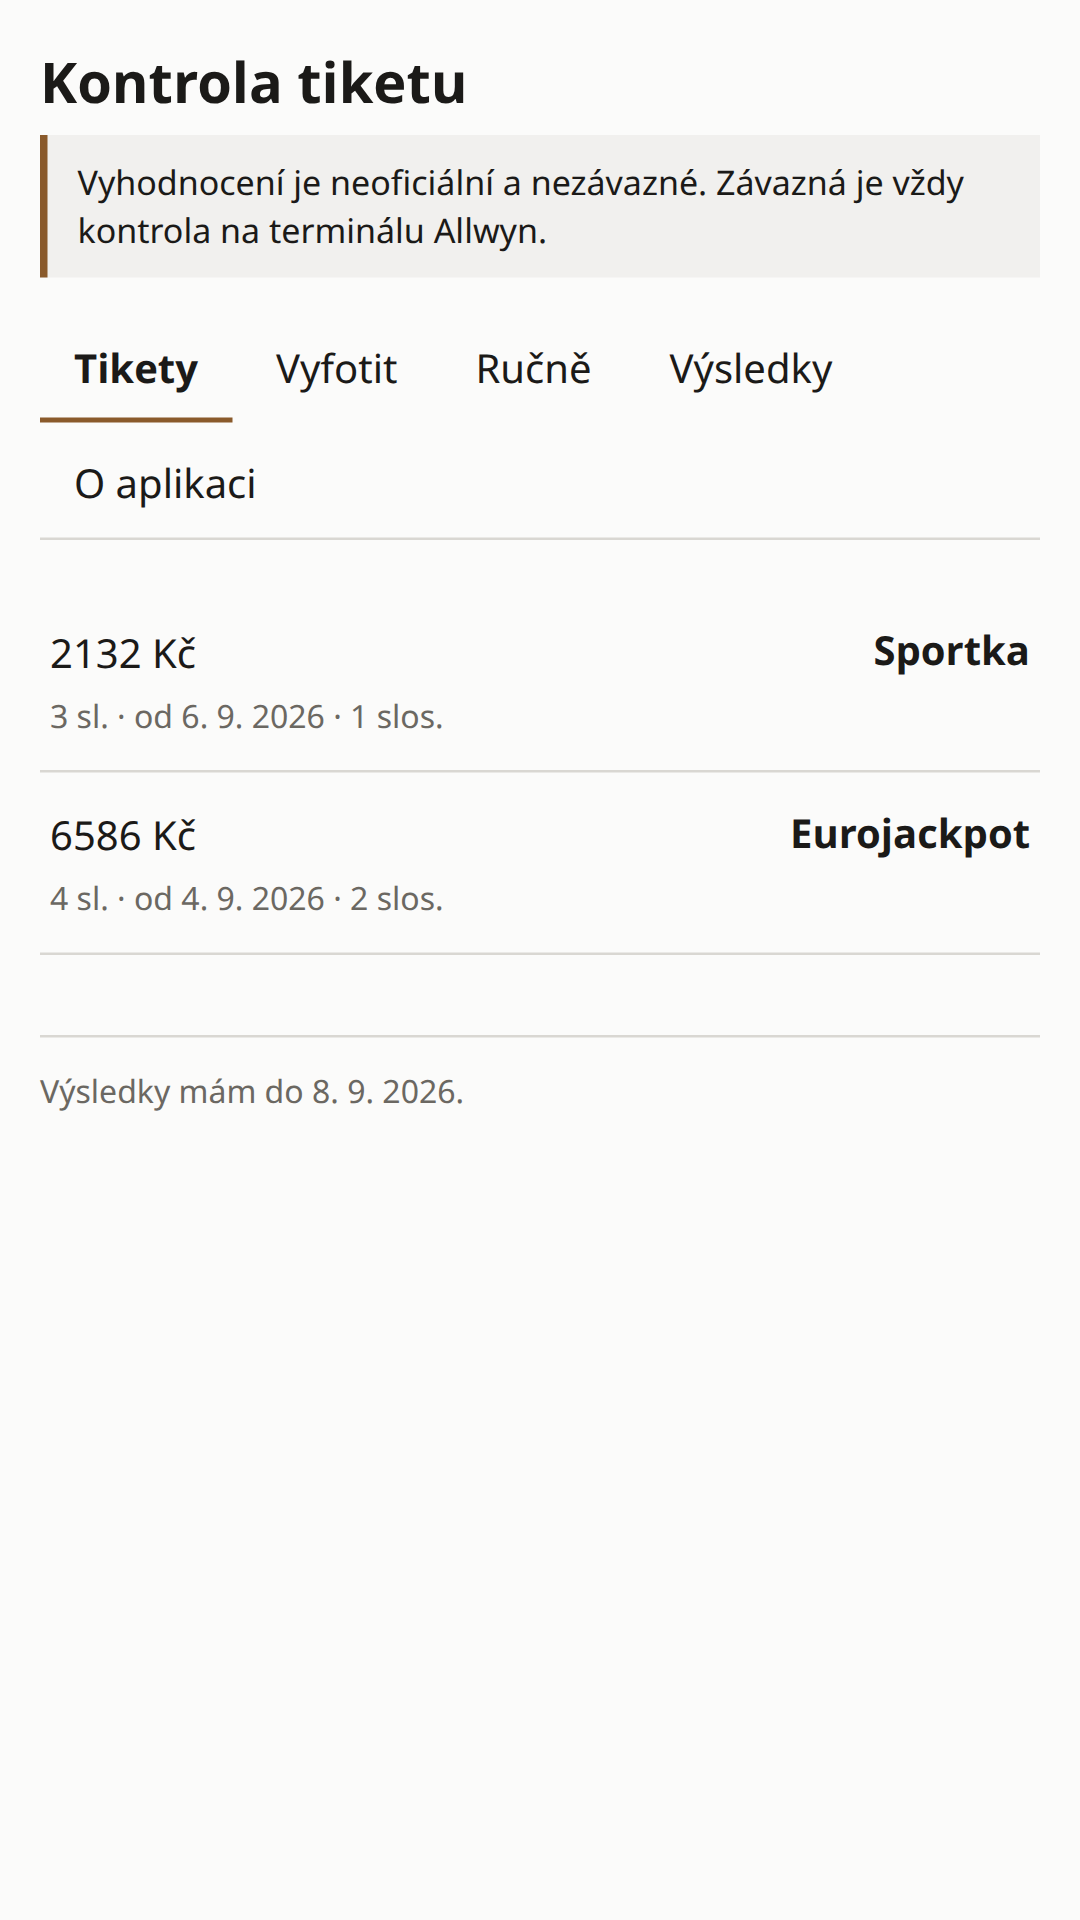
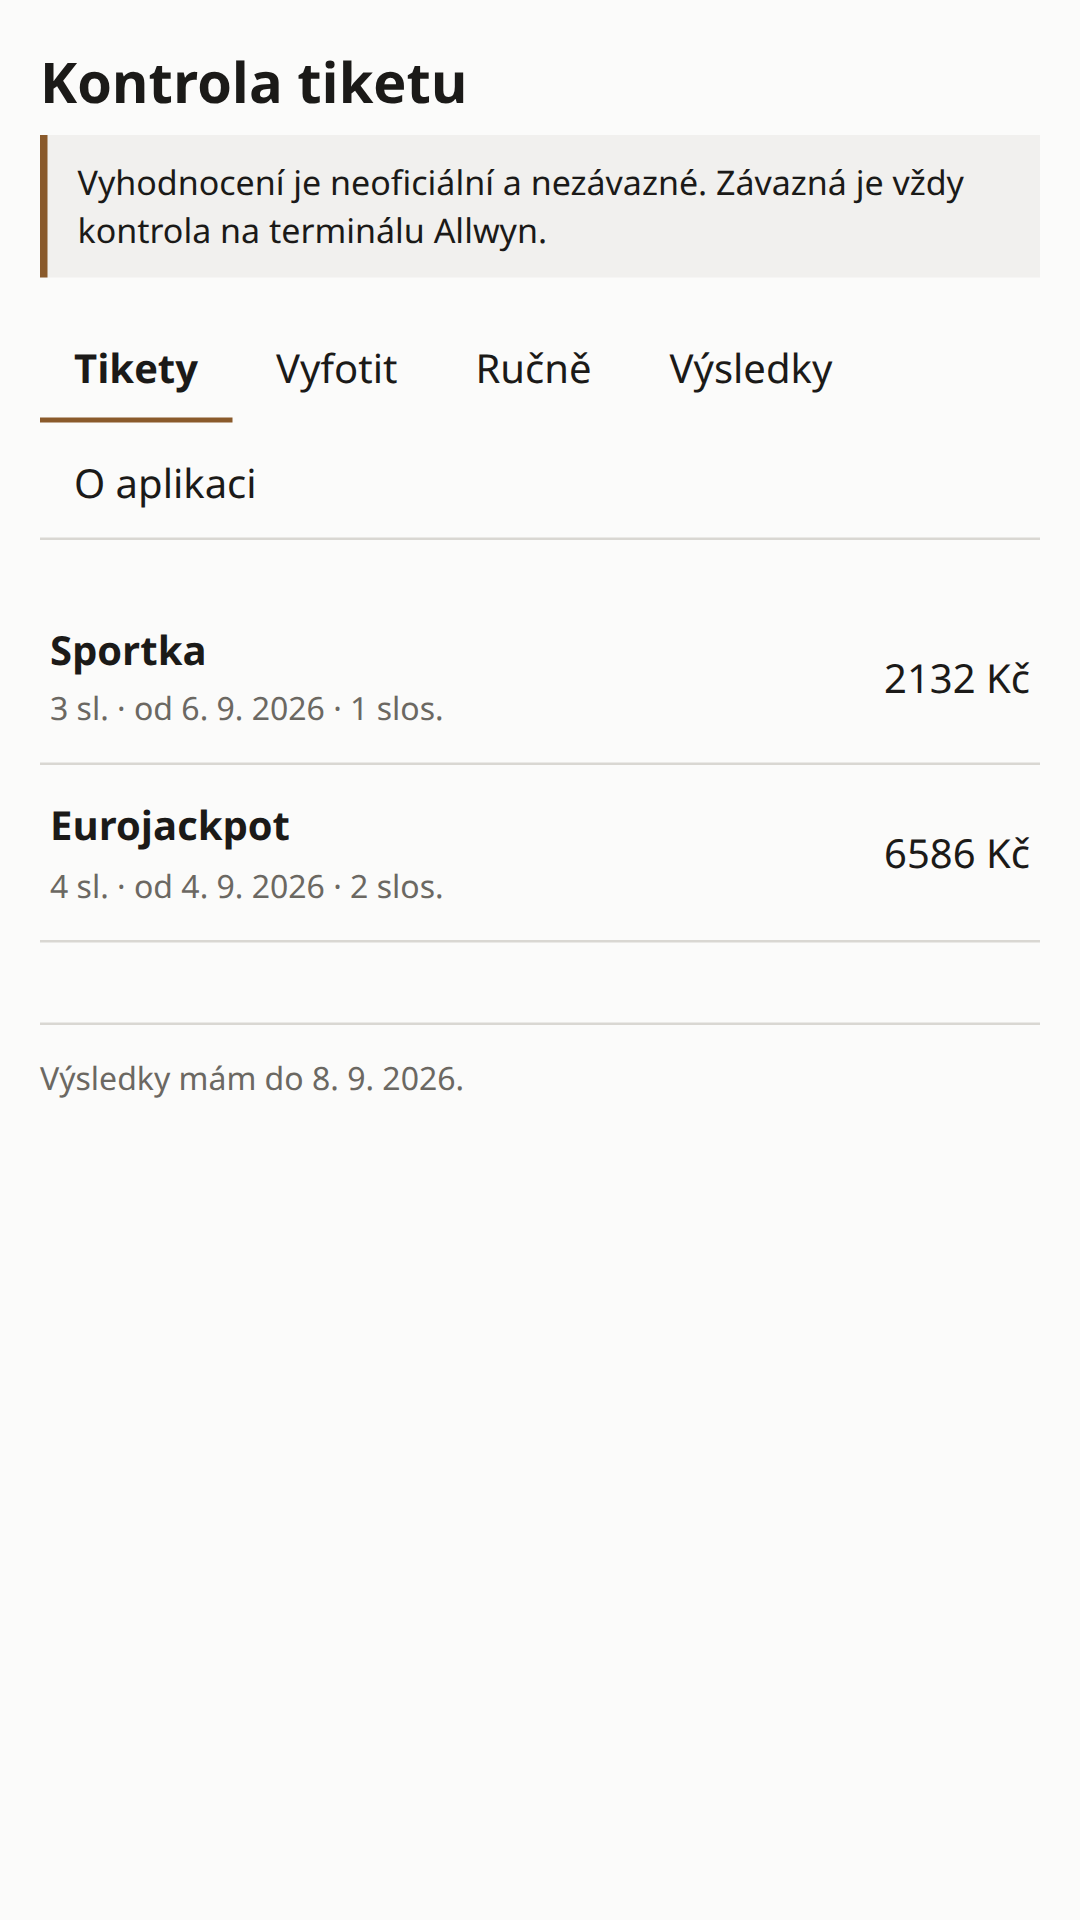
Aplikace: tři kosmetické vady, které byly vidět na screenshotech
Detail tiketu psal u doplňkové hry klíč z modelu („pořadí trojcisli“).
V seznamu mřížka umisťuje nejdřív prvky s pevným řádkem, takže částka
sebrala první sloupec a název hry skončil vpravo. Počet sloupců měl
natvrdo tvar pro pět a víc.

Screenshoty pro Play přegenerované s opravami.

diff --git a/app/src/app/obrazovky/detail.ts b/app/src/app/obrazovky/detail.ts
@@ -1,7 +1,13 @@
 import { Component, computed, inject, input, signal } from '@angular/core';
 import { Router } from '@angular/router';
 import type { Sloupec, VysledekSlosovani, VysledekTiketu, Vyhra } from '@kontrola-tiketu/jadro';
-import { formatujDatum, formatujDatumCas, nazevDne } from '../data/format.js';
+import {
+  formatujDatum,
+  formatujDatumCas,
+  nazevDne,
+  nazevPoradiDoplnkoveHry,
+  pocetSloupcu,
+} from '../data/format.js';
 import { Stav } from '../data/stav.js';
 
 /** Kolik koncových číslic se u kterého pořadí shoduje. */
@@ -28,7 +34,7 @@ const POPIS_VYHRADY: Readonly<Record<string, string>> = {
     @if (tiket(); as t) {
       <h2>{{ t.hra === 'eurojackpot' ? 'Eurojackpot' : 'Sportka' }}</h2>
       <p class="popis">
-        {{ t.sloupce.length }} sloupců, {{ t.slosovani.pocet }} slosování od
+        {{ pocetSloupcu(t.sloupce.length) }}, {{ t.slosovani.pocet }} slosování od
         {{ formatujDatum(t.slosovani.prvni) }}.
         @if (t.kodDoplnkoveHry) {
           <br />{{ t.hra === 'eurojackpot' ? 'Extra 6' : 'Šance' }}: {{ t.kodDoplnkoveHry }}
@@ -244,6 +250,7 @@ export class Detail {
 
   protected readonly formatujDatum = formatujDatum;
   protected readonly formatujDatumCas = formatujDatumCas;
+  protected readonly pocetSloupcu = pocetSloupcu;
 
   /**
    * Sériové číslo tiketu, pokud pochází z čárového kódu.
@@ -348,7 +355,12 @@ export class Detail {
     else casti.push(`Sloupec ${(vyhra.indexSloupce ?? 0) + 1}`);
 
     if (vyhra.poradiTahu !== null) casti.push(`${vyhra.poradiTahu}. tah`);
-    casti.push(`pořadí ${vyhra.poradi}`);
+
+    // Bonus žádné pořadí nemá — jeho klíč je jen „bonus“, takže by z toho vyšlo
+    // „Bonus · pořadí bonus“. Doplňková hra má místo římské číslice název koncovky.
+    if (vyhra.zdroj === 'doplnkova-hra') casti.push(nazevPoradiDoplnkoveHry(vyhra.poradi));
+    else if (vyhra.zdroj !== 'bonus') casti.push(`pořadí ${vyhra.poradi}`);
+
     return casti.join(' · ');
   }
 

diff --git a/app/test/format.test.ts b/app/test/format.test.ts
@@ -1,5 +1,11 @@
 import { describe, expect, it } from 'vitest';
-import { formatujDatum, formatujDatumCas, nazevDne } from '../src/app/data/format.js';
+import {
+  formatujDatum,
+  formatujDatumCas,
+  nazevDne,
+  nazevPoradiDoplnkoveHry,
+  pocetSloupcu,
+} from '../src/app/data/format.js';
 
 describe('formatujDatum', () => {
   it('píše datum česky, ne v ISO tvaru', () => {
@@ -35,5 +41,28 @@ describe('nazevDne', () => {
 
   it('neznámou zkratku nechá být', () => {
     expect(nazevDne('xx')).toBe('xx');
+  });
+});
+
+describe('nazevPoradiDoplnkoveHry', () => {
+  it('místo klíče z modelu vypíše, co uživatel trefil', () => {
+    // Bez tohohle stálo v detailu tiketu „pořadí trojcisli“.
+    expect(nazevPoradiDoplnkoveHry('trojcisli')).toBe('trojčíslí');
+    expect(nazevPoradiDoplnkoveHry('koncove-cislo')).toBe('koncové číslo');
+    expect(nazevPoradiDoplnkoveHry('sousedni-cislo')).toBe('sousední číslo');
+  });
+
+  it('neznámý klíč vrátí beze změny, ať se neztratí', () => {
+    expect(nazevPoradiDoplnkoveHry('sedmicisli')).toBe('sedmicisli');
+  });
+});
+
+describe('pocetSloupcu', () => {
+  it('skloňuje podle počtu, jak má čeština', () => {
+    expect(pocetSloupcu(1)).toBe('1 sloupec');
+    expect(pocetSloupcu(2)).toBe('2 sloupce');
+    expect(pocetSloupcu(4)).toBe('4 sloupce');
+    expect(pocetSloupcu(5)).toBe('5 sloupců');
+    expect(pocetSloupcu(10)).toBe('10 sloupců');
   });
 });

diff --git a/app/src/app/data/format.ts b/app/src/app/data/format.ts
@@ -39,3 +39,28 @@ export function formatujDatumCas(iso: string): string {
 export function nazevDne(zkratka: string): string {
   return DNY[zkratka] ?? zkratka;
 }
+
+/**
+ * Názvy pořadí doplňkové hry. Šance je má i v listině (`popis`), Extra 6 ale ne, takže by
+ * se uživateli jinak ukázal holý klíč z modelu — „pořadí trojcisli“.
+ */
+const PORADI_DOPLNKOVE: Readonly<Record<string, string>> = {
+  sestecisli: 'šestičíslí',
+  peticisli: 'pětičíslí',
+  ctyrcisli: 'čtyřčíslí',
+  trojcisli: 'trojčíslí',
+  dvojcisli: 'dvojčíslí',
+  'koncove-cislo': 'koncové číslo',
+  'sousedni-cislo': 'sousední číslo',
+};
+
+export function nazevPoradiDoplnkoveHry(klic: string): string {
+  return PORADI_DOPLNKOVE[klic] ?? klic;
+}
+
+/** `1 sloupec`, `3 sloupce`, `5 sloupců` — čeština má tři tvary, ne dva. */
+export function pocetSloupcu(pocet: number): string {
+  if (pocet === 1) return '1 sloupec';
+  if (pocet >= 2 && pocet <= 4) return `${pocet} sloupce`;
+  return `${pocet} sloupců`;
+}

diff --git a/app/src/app/obrazovky/seznam.ts b/app/src/app/obrazovky/seznam.ts
@@ -59,7 +59,14 @@ interface RadekSeznamu {
     }
     .hra { font-weight: 600; }
     .detail { grid-column: 1; font-size: 0.8rem; color: var(--barva-text-tlumeny); }
-    .castka { grid-row: 1 / span 2; align-self: center; font-variant-numeric: tabular-nums; }
+    /*
+      Sloupec se musí určit výslovně. Mřížka umisťuje nejdřív prvky s pevným řádkem, takže
+      by částka sebrala první sloupec a název hry by skončil vpravo — opačně, než se čte.
+    */
+    .castka {
+      grid-column: 2; grid-row: 1 / span 2;
+      align-self: center; font-variant-numeric: tabular-nums;
+    }
     .castka.nejisty { color: var(--barva-text-tlumeny); }
   `,
 })

diff --git a/CHANGELOG.md b/CHANGELOG.md
@@ -29,6 +29,11 @@ pro uživatele nic není, se v aplikaci neukáže vůbec.
 - Aplikace žádá o přístup k internetu, ale spojit se umí jedině se serverem výsledků — jinam systém šifrované spojení nepustí; Googlí vrstva pro odesílání záznamů z ML Kitu je z aplikace odstraněná (aplikace)
 - Import výsledků ukládá jen nové tahy místo přepisu celého seznamu (aplikace)
 
+### Opraveno
+- Výhra v Šanci nebo v Extra 6 se popisuje česky („trojčíslí“) místo klíčem z modelu („pořadí trojcisli“) (aplikace)
+- V seznamu tiketů je zase název hry vlevo a částka vpravo; mřížka je stavěla obráceně (aplikace)
+- Počet sloupců se skloňuje — „1 sloupec“, „3 sloupce“, „5 sloupců“ (aplikace)
+
 ## [0.1.1] – 2026-09-10
 
 ### Opraveno
